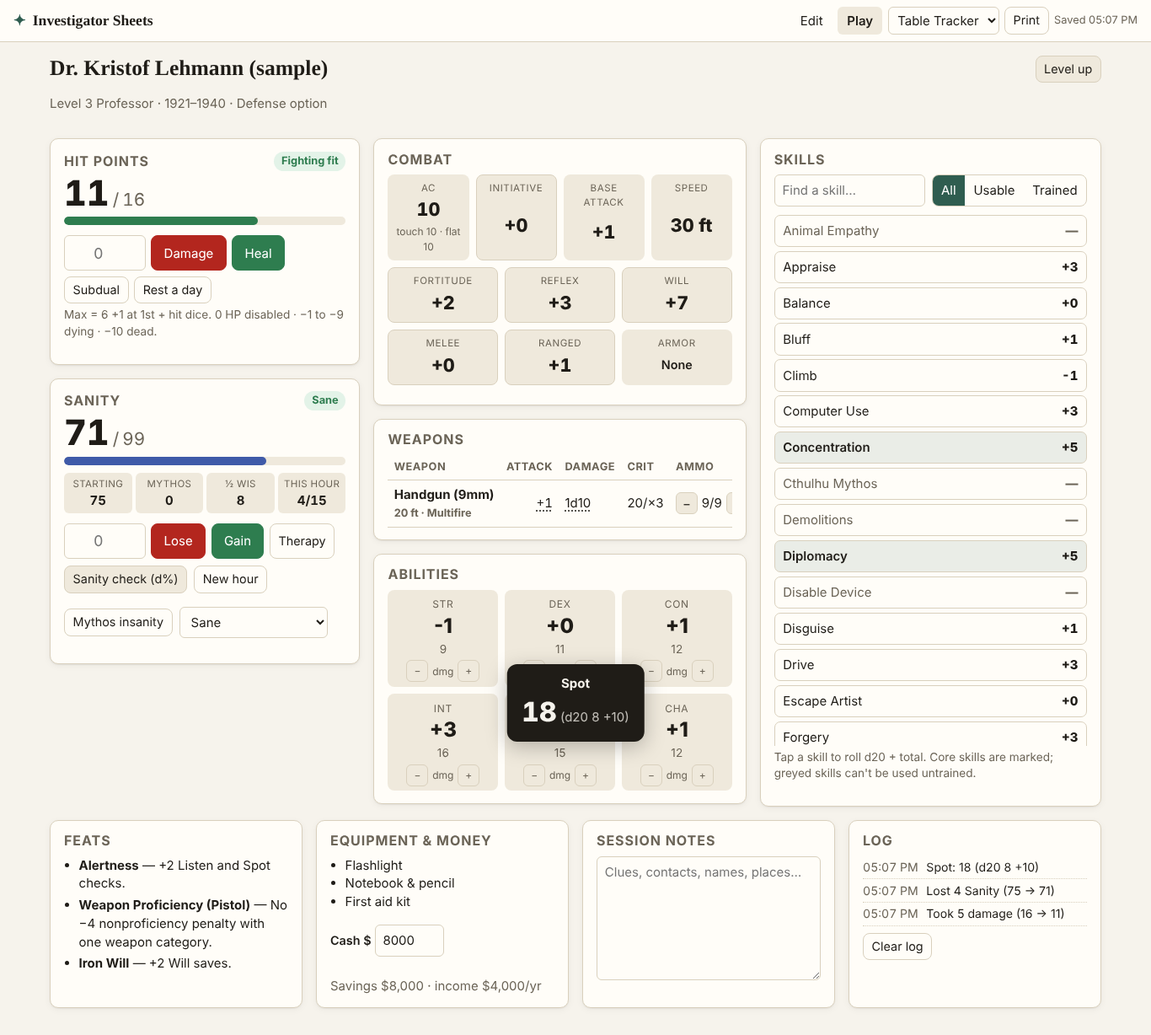
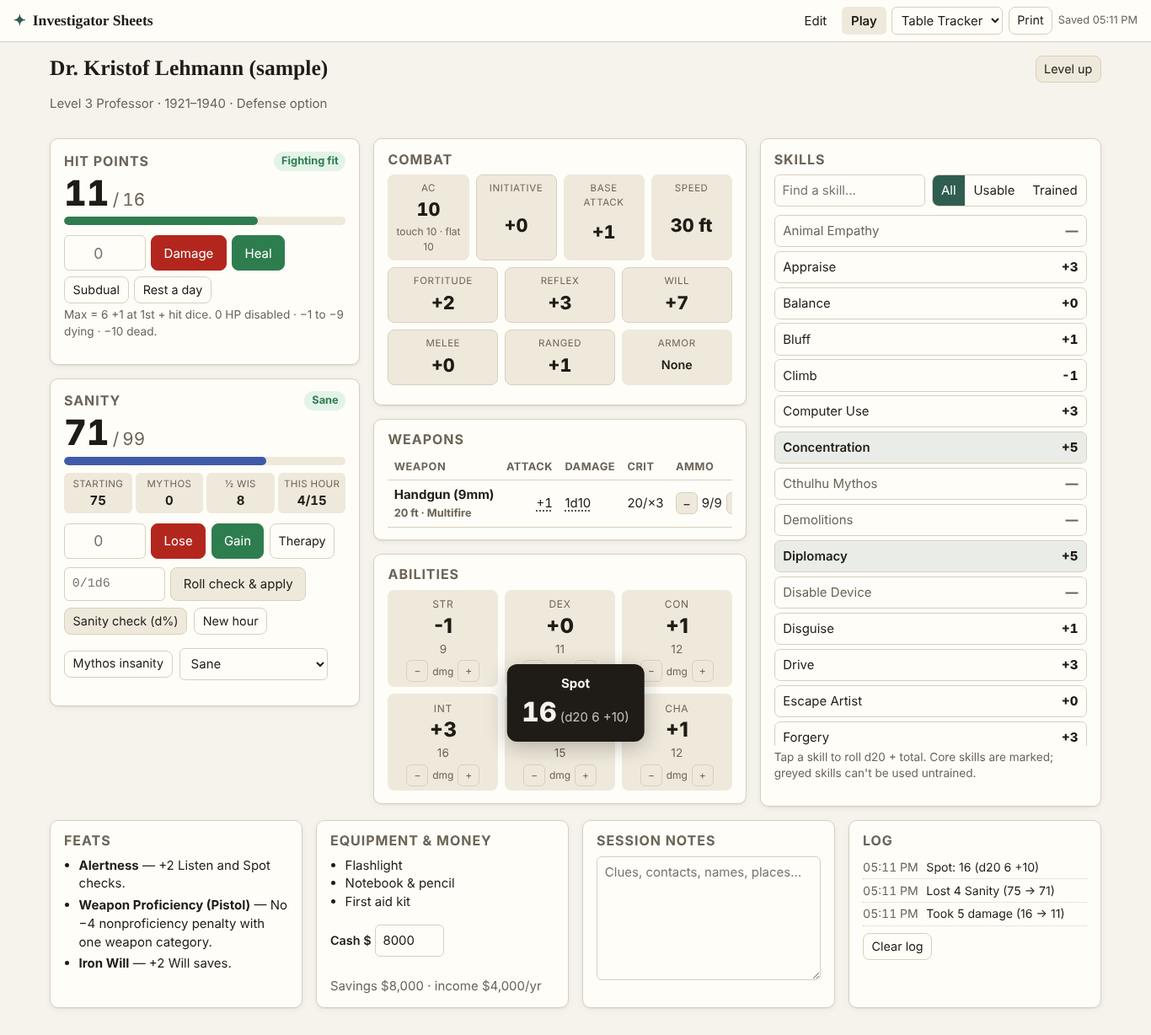
Add insanity tables, Sanity-check rolls and specific firearms
- Tables 4-1 to 4-4 and the Sanity Loss Examples (p.48-50), checked
  against the page images: "Roll check & apply" takes success/failure
  loss notation, rolls d% against current Sanity and applies the loss;
  temporary and indefinite insanity alerts roll the duration and effect.
- Table 6-5 specific firearms (pistols, rifles, automatic rifles, SMGs)
  as weapon presets, grouped by table. Shotguns stay generic because
  their damage table (6-8) is unverified.
- Offense bonus Weapon Proficiency: rules as written tie it to the
  Defense Bonus variant; the other reading is a labelled house rule.
- DESIGNS.md: data provenance for every table used; 30 tests passing.

Claude-Session: https://claude.ai/code/session_01RhYKi65zqZFbYt3AciwoZE

Changed region(s): [[0.0307, 0.5261, 0.2767, 0.6498], [0.7072, 0.0, 0.9839, 0.0309], [0.4612, 0.6808, 0.4919, 0.7117]]

diff --git a/v2/js/rules.js b/v2/js/rules.js
@@ -253,6 +253,76 @@
     { name: "Submachine gun (9×19mm)", category: "smg", damage: "1d10", critical: "×3", range: "25 ft", capacity: 30, rof: "Autofire" },
   ];
 
+  // Specific firearms — Table 6-5 (p.98-99), verified against the page images
+  // (docs/rulebook/EXTRACTION_REVIEW.md §2.18). Where a gun is listed in several
+  // calibers, each calibre's damage is shown in the name. Shotguns are omitted
+  // because their damage comes from Table 6-8, which has not been verified;
+  // use the generic shotgun from Table 6-3.
+  const SPECIFIC_FIREARMS = [
+    // [name, category, damage, capacity, range ft, rate of fire, critical]
+    ["Remington Double Derringer (.41 RF)", "pistol", "1d8", 2, 5, "Multifire"],
+    ["Colt Single Action Army (.45 Colt)", "pistol", "2d8", 6, 20, "Standard"],
+    ["Colt Single Action Army (.40/.41 Colt)", "pistol", "1d10", 6, 20, "Standard"],
+    ["Colt M1877 \"Lightning\" (.38 Colt)", "pistol", "1d10", 6, 20, "Multifire"],
+    ["Colt M1877 \"Thunderer\" (.41 Colt)", "pistol", "1d10", 6, 20, "Multifire"],
+    ["Webley Mark I (.455)", "pistol", "2d8", 6, 20, "Standard/Multifire"],
+    ["Mauser M1896 \"Broomhandle\"", "pistol", "1d10", 10, 20, "Multifire"],
+    ["P08 Luger (9×19mm)", "pistol", "1d10", 8, 20, "Multifire"],
+    ["Colt M1911 (.45 ACP)", "pistol", "2d8", 7, 20, "Multifire"],
+    ["Colt M1917 Revolver (.45 ACP)", "pistol", "2d8", 6, 20, "Multifire"],
+    ["S&W M1917 Revolver (.45 ACP)", "pistol", "2d8", 6, 20, "Multifire"],
+    ["Astra M1921 (9mm)", "pistol", "1d10", 8, 20, "Multifire"],
+    ["Walther PPK (.32 ACP)", "pistol", "1d8", 7, 20, "Multifire"],
+    ["Walther PPK (.380 ACP)", "pistol", "1d10", 7, 20, "Multifire"],
+    ["Browning GP35 High-Power (9×19mm)", "pistol", "1d10", 13, 20, "Multifire"],
+    ["Walther P38 (9×19mm)", "pistol", "1d10", 8, 20, "Multifire"],
+    ["Colt Python (.357 Magnum)", "pistol", "2d6", 6, 20, "Multifire"],
+    ["Ruger Blackhawk (.357 Magnum)", "pistol", "2d6", 6, 20, "Standard"],
+    ["Ruger Blackhawk (.44 Magnum / .45 Colt)", "pistol", "2d8", 6, 20, "Standard"],
+    ["H&K P9 (9×19mm)", "pistol", "1d10", 9, 20, "Multifire"],
+    ["SIG-Sauer P225 (9×19mm)", "pistol", "1d10", 8, 20, "Multifire"],
+    ["Beretta M92 (9×19mm)", "pistol", "1d10", 15, 20, "Multifire"],
+    ["Ruger Redhawk (.44 Magnum)", "pistol", "2d8", 6, 20, "Multifire"],
+    ["IMI Desert Eagle (.357/.41)", "pistol", "2d6", 9, 20, "Multifire"],
+    ["IMI Desert Eagle (.44 Magnum)", "pistol", "2d8", 7, 20, "Multifire"],
+    ["IMI Desert Eagle (.50 AE)", "pistol", "2d10", 7, 20, "Multifire"],
+    ["Glock 17 (9×19mm)", "pistol", "1d10", 17, 20, "Multifire"],
+    ["Colt Delta Elite (10mm)", "pistol", "1d10", 8, 20, "Multifire"],
+    ["Mosin-Nagant M1891 (7.62×54mm)", "rifle", "2d10", 5, 200, "Standard"],
+    ["Mannlicher-Carcano M1891 Carbine", "rifle", "2d8", 6, 175, "Standard"],
+    ["Winchester M1894 (.32-40/.25-35)", "rifle", "2d6", 8, 200, "Standard"],
+    ["Winchester M1894 (.30-30/.38-55)", "rifle", "2d10", 8, 200, "Standard"],
+    ["Lee-Enfield Mk I (.303)", "rifle", "2d10", 6, 175, "Standard"],
+    ["Mauser M1898 (7.92×57mm)", "rifle", "2d10", 5, 200, "Standard"],
+    ["Springfield M1903", "rifle", "2d10", 5, 175, "Standard"],
+    ["Lee-Enfield Mk III (.303)", "rifle", "2d10", 10, 200, "Standard"],
+    ["M1 Garand (.30-06)", "rifle", "2d10", 8, 200, "Multifire"],
+    ["Springfield M1903A4 Sniper (.30-06)", "rifle", "2d10", 5, 200, "Standard"],
+    ["Lee-Enfield No. 5 Jungle Carbine", "rifle", "2d10", 10, 175, "Standard"],
+    ["Ruger Mini-14 (5.56×45mm)", "rifle", "2d6", 30, 200, "Multifire"],
+    ["M21 Sniper (7.62×51mm)", "rifle", "2d10", 20, 200, "Multifire"],
+    ["Barrett Light Fifty M82A1", "rifle", "2d12", 11, 200, "Multifire", "×4"],
+    ["FR-F2 Sniper (7.62×51mm)", "rifle", "2d10", 10, 200, "Standard"],
+    ["Ruger M77 Mk II Police (7.62×51mm)", "rifle", "2d10", 4, 200, "Standard"],
+    ["M1918 BAR (.30-06)", "rifle", "2d10", 20, 200, "Autofire"],
+    ["AK-47 (7.62×39mm)", "rifle", "2d6", 30, 150, "Autofire"],
+    ["FN FAL (7.62×51mm)", "rifle", "2d10", 20, 200, "Autofire"],
+    ["M-14 (7.62×51mm)", "rifle", "2d10", 20, 200, "Autofire"],
+    ["H&K G3 (7.62×51mm)", "rifle", "2d6", 20, 200, "Autofire"],
+    ["Colt M-16A1 (5.56×45mm)", "rifle", "2d6", 30, 200, "Autofire"],
+    ["Galil (5.56×45mm)", "rifle", "2d6", 35, 200, "Autofire"],
+    ["Steyr AUG (5.56×45mm)", "rifle", "2d6", 30, 200, "Autofire"],
+    ["Enfield L85A1 (5.56×45mm)", "rifle", "2d6", 30, 200, "Autofire"],
+    ["Thompson M1921 (.45 ACP)", "smg", "2d8", 20, 30, "Autofire"],
+    ["Sten Mk I (9×19mm)", "smg", "1d10", 32, 25, "Autofire"],
+    ["M3 \"Grease Gun\" (.45 ACP)", "smg", "2d8", 30, 30, "Autofire"],
+    ["Uzi (9×19mm)", "smg", "1d10", 32, 25, "Autofire"],
+    ["Sterling L2A1 (9×19mm)", "smg", "1d10", 34, 30, "Autofire"],
+    ["vz61 Skorpion (.32 ACP)", "smg", "1d8", 20, 20, "Autofire"],
+    ["H&K MP5 (9×19mm)", "smg", "1d10", 30, 25, "Autofire"],
+  ].map(([name, category, damage, capacity, range, rof, critical]) => ({ name, category, damage, critical: critical || "×3", range: `${range} ft`, capacity, rof, source: "Table 6-5" }));
+  WEAPON_PRESETS.push(...SPECIFIC_FIREARMS);
+
   // ---------------------------------------------------------------------------
   // Small helpers
   // ---------------------------------------------------------------------------
@@ -795,6 +865,112 @@
     };
   }
 
+  // ---------------------------------------------------------------------------
+  // Insanity tables (p.48-50), transcribed from the page images.
+  // ---------------------------------------------------------------------------
+  const SANITY_LOSS_EXAMPLES = [ // p.48: successful check cost / failed check cost
+    ["0/1d2", "Surprised to find mangled animal carcass"], ["0/1d3", "Surprised to find human corpse"],
+    ["0/1d3", "Surprised to find human body part"], ["0/1d4", "Finding a stream flowing with blood"],
+    ["1/1d4+1", "Finding a mangled human corpse"], ["0/1d6", "Awakening trapped in a coffin"],
+    ["0/1d6", "Witnessing a friend's violent death"], ["0/1d6", "Seeing a ghoul"],
+    ["1/1d6+1", "Meeting someone you know to be dead"], ["0/1d10", "Undergoing severe torture"],
+    ["1/1d10", "Seeing a corpse rise from its grave"], ["2/2d10+1", "Seeing a gigantic severed head fall from the sky"],
+    ["1d10/1d100", "Seeing Great Cthulhu"],
+  ];
+  const TEMP_INSANITY_DURATION = [ // Table 4-1 (d10)
+    { max: 7, type: "short", label: "Short temporary insanity", duration: "1d10+4 rounds" },
+    { max: 10, type: "long", label: "Longer temporary insanity", duration: "1d10×10 hours" },
+  ];
+  const SHORT_TEMP_INSANITY = [ // Table 4-2 (d%), lasts 1d10+4 rounds
+    [20, "Character faints (can be awakened by vigorous action taking one round)"],
+    [30, "Character has a screaming fit"],
+    [40, "Character flees in panic"],
+    [50, "Character shows physical hysterics or emotional outburst (laughing, crying, and so on)"],
+    [55, "Character babbles in incoherent rapid speech or in logorrhea (a torrent of coherent speech)"],
+    [60, "Character gripped by intense phobia, perhaps rooting her to the spot"],
+    [65, "Character becomes homicidal, dealing harm on nearest person as efficiently as possible"],
+    [70, "Character has hallucinations or delusions (details at the discretion of the GM)"],
+    [75, "Character gripped with echopraxia or echolalia (saying or doing whatever those around him say or do)"],
+    [80, "Character gripped with strange or deviant eating desire (dirt, slime, cannibalism, and so on)"],
+    [90, "Character falls into a stupor (assumes fetal position, oblivious to events around her)"],
+    [99, "Character becomes catatonic (can stand but has no will or interest; may be led or forced to simple actions but takes no independent action)"],
+    [100, "Roll on Table 4-3: Long-Term Temporary Insanity Effects"],
+  ];
+  const LONG_TEMP_INSANITY = [ // Table 4-3 (d%), lasts 1d10×10 hours
+    [10, "Character performs compulsive rituals (washing hands constantly, praying, walking in a particular rhythm, never stepping on cracks, constantly checking to see if gun is loaded, and so on)"],
+    [20, "Character has hallucinations or delusions (details at the discretion of the GM)"],
+    [30, "Character becomes paranoid"],
+    [40, "Character gripped with severe phobia (refuses to approach object of phobia except on successful Will save, DC 20)"],
+    [45, "Character has strange sexual desires (exhibitionism, nymphomania or satyriasis, teratophilia, necrophilia, and so on)"],
+    [55, "Character develops an attachment to a \"lucky charm\" (embraces object, type of object, or person as a safety blanket) and cannot function without it"],
+    [65, "Character develops psychosomatic blindness, deafness, or the loss of the use of a limb or limbs"],
+    [75, "Character has uncontrollable tics or tremors (−4 penalty to all attack rolls, checks, and saves except those purely mental in nature)"],
+    [85, "Character has amnesia (memories of intimates usually lost first; Knowledge skills useless)"],
+    [90, "Character has bouts of reactive psychosis (incoherence, delusions, aberrant behavior, and/or hallucinations)"],
+    [95, "Character loses ability to communicate via speech or writing"],
+    [100, "Character becomes catatonic (can stand but has no will or interest; may be led or forced into simple actions but takes no independent action)"],
+  ];
+  const INDEFINITE_INSANITY = [ // Table 4-4 (d%), lasts 1d6 game months
+    [15, "Anxiety Disorders (includes severe phobias)"],
+    [25, "Dissociative Disorders (amnesia, multiple personalities)"],
+    [30, "Eating Disorders (anorexia, bulimia)"],
+    [35, "Impulse Control Disorders (compulsions)"],
+    [45, "Mood Disorders (manic/depressive)"],
+    [50, "Personality Disorders (various neuroses)"],
+    [55, "Psychosexual Disorders (sadism, nymphomania)"],
+    [70, "Schizophrenia/Psychotic Disorders (delusions, hallucinations, paranoia, catatonia)"],
+    [80, "Sleep Disorders (night terrors, sleepwalking)"],
+    [85, "Somatoform Disorders (psychosomatic conditions)"],
+    [95, "Substance Abuse Disorder (alcoholic, drug addict)"],
+    [100, "Other Disorders (megalomania, quixotism, panzaism)"],
+  ];
+  /** Look up a d% (1-100; "00" = 100) on one of the tables above. */
+  function lookup(table, roll) { return (table.find(([max]) => roll <= max) || table[table.length - 1])[1]; }
+
+  /** Roll an expression such as "3", "1d6+1", "d10", "2d10+1", "1d100". */
+  function rollExpr(expr, rng = Math.random) {
+    const e = String(expr || "").trim().replace(/\s+/g, "").replace(/d%/i, "1d100");
+    if (/^-?\d+$/.test(e)) return { total: +e, rolls: [] };
+    const m = e.match(/^(\d*)d(\d+)([+-]\d+)?$/i);
+    if (!m) return null;
+    const n = +(m[1] || 1), sides = +m[2], bonus = +(m[3] || 0);
+    const rolls = Array.from({ length: n }, () => rollDie(sides, rng));
+    return { total: Math.max(0, rolls.reduce((a, b) => a + b, 0) + bonus), rolls, bonus };
+  }
+  /** Parse Sanity loss notation "success/failure", e.g. "0/1d6" or "1/1d4+1". */
+  function parseSanityLoss(text) {
+    const parts = String(text || "").split("/").map((x) => x.trim());
+    if (parts.length !== 2 || !rollExpr(parts[0], () => 0) || !rollExpr(parts[1], () => 0)) return null;
+    return { success: parts[0], failure: parts[1] };
+  }
+  /** Sanity check (d% ≤ current Sanity) and the resulting loss (p.46-48). */
+  function sanityCheck(c, notation, rng = Math.random) {
+    const loss = parseSanityLoss(notation);
+    if (!loss) return null;
+    const current = sanity(c).current;
+    const roll = rollDie(100, rng);
+    const success = roll <= current;
+    const amount = rollExpr(success ? loss.success : loss.failure, rng);
+    return { roll, current, success, expr: success ? loss.success : loss.failure, amount: amount.total, dice: amount.rolls, bonus: amount.bonus || 0 };
+  }
+  /** Roll temporary insanity: Table 4-1 for duration, then 4-2 or 4-3 for the effect. */
+  function rollTemporaryInsanity(rng = Math.random) {
+    const d10 = rollDie(10, rng);
+    const kind = TEMP_INSANITY_DURATION.find((r) => d10 <= r.max);
+    let pct = rollDie(100, rng);
+    let table = kind.type === "short" ? SHORT_TEMP_INSANITY : LONG_TEMP_INSANITY;
+    let effect = lookup(table, pct);
+    let rerolled = null;
+    if (kind.type === "short" && pct === 100) { rerolled = rollDie(100, rng); effect = lookup(LONG_TEMP_INSANITY, rerolled); }
+    const length = kind.type === "short" ? `${rollExpr("1d10+4", rng).total} rounds` : `${rollDie(10, rng) * 10} hours`;
+    return { d10, kind: kind.label, duration: kind.duration, length, roll: pct, rerolled, effect };
+  }
+  /** Roll indefinite insanity on Table 4-4; it lasts 1d6 game months (p.49). */
+  function rollIndefiniteInsanity(rng = Math.random) {
+    const pct = rollDie(100, rng);
+    return { roll: pct, disorder: lookup(INDEFINITE_INSANITY, pct), months: rollDie(6, rng) };
+  }
+
   /** Worked example used by v2/DESIGNS.md and the tests (3rd-level Professor, age 52). */
   function sampleCharacter() {
     const c = newCharacter({
@@ -824,6 +1000,8 @@
     skillBase, skillSpecialty, skillDef,
     baseAttackBonus, attackSequence, baseSave, goodSaveCount, coreMaxRanks, noncoreMaxRanks, featSlots,
     abilityIncreaseLevels, defenseBonus, agingCategory, offenseBonusFeat, gearWeight, sampleCharacter,
+    SANITY_LOSS_EXAMPLES, TEMP_INSANITY_DURATION, SHORT_TEMP_INSANITY, LONG_TEMP_INSANITY, INDEFINITE_INSANITY,
+    lookup, rollExpr, parseSanityLoss, sanityCheck, rollTemporaryInsanity, rollIndefiniteInsanity,
     newCharacter, normalize, abilityScores, mods, saves, combat, isProficient, weaponAttack, threatRange, parseDamage,
     hitPoints, hpState, sanity, sanityState, loseSanity, gainSanity, newSanityHour, mythosInsanity,
     templateCore, isCore, skillPoints, skillIds, skillTable, money, hasFeat, featCount, featPrereqIssues,

diff --git a/v2/js/designs.js b/v2/js/designs.js
@@ -85,6 +85,12 @@
         <button class="btn ok" data-action="san-gain" title="Gain Sanity (capped at maximum)">Gain</button>
         ${opts.compact ? "" : `<button class="btn ghost small" data-action="san-therapy" title="Psychoanalysis: cannot raise Sanity above starting Sanity">Therapy</button>`}
       </div>
+      <div class="sanroll-row no-print">
+        <label class="sr-only" for="sanRoll-${opts.id || "a"}">Sanity loss (success/failure)</label>
+        <input class="sanroll" id="sanRoll-${opts.id || "a"}" list="sanExamples" placeholder="0/1d6" autocomplete="off" />
+        <button class="btn" data-action="san-roll" title="Roll d% against current Sanity, then roll and apply the success or failure loss">Roll check &amp; apply</button>
+        <datalist id="sanExamples">${C.SANITY_LOSS_EXAMPLES.map(([v, l]) => `<option value="${v}">${esc(l)}</option>`).join("")}</datalist>
+      </div>
       <div class="row no-print">
         <button class="btn small" data-action="san-check">Sanity check (d%)</button>
         <button class="btn small ghost" data-action="san-hour" title="Start a new in-game hour for the 20% indefinite-insanity tracker">New hour</button>
@@ -322,7 +328,22 @@
     const v = input ? parseInt(input.value, 10) : NaN;
     return Number.isFinite(v) && v > 0 ? v : 0;
   }
+  /** Remove the alert holding a given roll button once it has been used. */
+  function dropAlert(action) { const k = playAlerts.findIndex((x) => x.html.includes(`data-action="${action}"`)); if (k >= 0) playAlerts.splice(k, 1); }
   function addAlert(kind, html) { playAlerts.unshift({ kind, html }); if (playAlerts.length > 4) playAlerts.pop(); }
+
+  /** Apply a Sanity loss and raise the rule alerts it triggers (p.47-50). */
+  function applyLoss(ch, d, n, reason, api) {
+    const res = C.loseSanity(ch, n, reason);
+    const s = C.sanity(res.character);
+    for (const t of res.triggers) {
+      if (t === "temporary") addAlert("warn", `<strong>Lost ${n} in one roll (≥ ½ Wis = ${d.sanity.tempThreshold}).</strong> The GM calls for a Sanity check: on a failure the investigator goes temporarily insane. <button class="btn small" data-action="roll-temp-insanity">Roll Tables 4-1 &amp; 4-2/4-3</button>`);
+      if (t === "indefinite") addAlert("danger", `<strong>Lost ${s.hourLoss} Sanity this hour (≥ 20% = ${s.indefiniteThreshold}).</strong> The investigator goes indefinitely insane when the GM judges it. <button class="btn small" data-action="roll-indef-insanity">Roll Table 4-4</button>`);
+      if (t === "zero") addAlert("danger", `<strong>Sanity at ${s.current}.</strong> The character loses 1 more Sanity each round until −10 unless stabilized with Psychoanalysis.`);
+      if (t === "permanent") addAlert("danger", `<strong>Sanity −10 or lower: permanent insanity.</strong> The character becomes an NPC.`);
+    }
+    api.update(() => { const c = res.character; api.pushLog(c, `Lost ${n} Sanity (${d.sanity.current} → ${s.current})${reason ? " — " + reason : ""}`); if (res.triggers.includes("permanent")) c.sanity.insanity = "permanent"; return c; });
+  }
 
   function handleAction(a, el, api) {
     const ch = api.state.ch;
@@ -393,18 +414,33 @@
         c.hp.subdual = 0;
         api.pushLog(c, `Rested a day: +${c.hp.current - d.hp.current} HP`);
       }); break;
+      case "san-roll": {
+        const input = (el.closest(".panel") || document).querySelector("input.sanroll");
+        const notation = input ? input.value : "";
+        const chk = C.sanityCheck(ch, notation);
+        if (!chk) { api.toast("Enter the loss as success/failure, e.g. 0/1d6 or 1/1d4+1."); break; }
+        api.toast(`<strong>Sanity check ${api.esc(notation)}</strong><br><span class="roll-big">${chk.roll}</span> vs ${chk.current} — <strong>${chk.success ? "success" : "failure"}</strong>: lose ${chk.amount}${chk.dice.length ? ` (${api.esc(chk.expr)}: ${chk.dice.join("+")}${chk.bonus ? " " + C.fmt(chk.bonus) : ""})` : ""}`, 7000);
+        applyLoss(ch, d, chk.amount, `Sanity check ${notation}: d% ${chk.roll} vs ${chk.current}, ${chk.success ? "success" : "failure"}`, api);
+        break;
+      }
+      case "roll-temp-insanity": {
+        const r = C.rollTemporaryInsanity();
+        dropAlert("roll-temp-insanity");
+        addAlert("warn", `<strong>${r.kind}: ${r.length}</strong> (Table 4-1 d10 ${r.d10}; ${r.duration}).<br>${api.esc(r.effect)} <span class="muted">(${r.kind.startsWith("Short") ? "Table 4-2" : "Table 4-3"} d% ${r.roll}${r.rerolled ? `, then Table 4-3 d% ${r.rerolled}` : ""})</span>`);
+        api.update((c) => { c.sanity.insanity = "temporary"; api.pushLog(c, `Temporary insanity: ${r.length} — ${r.effect}`); });
+        break;
+      }
+      case "roll-indef-insanity": {
+        const r = C.rollIndefiniteInsanity();
+        dropAlert("roll-indef-insanity");
+        addAlert("danger", `<strong>Indefinite insanity: ${r.months} game month${r.months > 1 ? "s" : ""}</strong> (1d6).<br>${api.esc(r.disorder)} <span class="muted">(Table 4-4 d% ${r.roll}; the GM may choose instead)</span>`);
+        api.update((c) => { c.sanity.insanity = "indefinite"; api.pushLog(c, `Indefinite insanity (${r.months} months): ${r.disorder}`); });
+        break;
+      }
       case "san-lose": {
         const n = amount(el);
         if (!n) { api.toast("Enter an amount first."); break; }
-        const res = C.loseSanity(ch, n, "");
-        const s = C.sanity(res.character);
-        for (const t of res.triggers) {
-          if (t === "temporary") addAlert("warn", `<strong>Lost ${n} in one roll (≥ ½ Wis = ${d.sanity.tempThreshold}).</strong> The GM calls for a Sanity check: on a failure the investigator goes temporarily insane (Table 4-1).`);
-          if (t === "indefinite") addAlert("danger", `<strong>Lost ${s.hourLoss} Sanity this hour (≥ 20% = ${s.indefiniteThreshold}).</strong> The investigator goes indefinitely insane (Table 4-4) when the GM judges it.`);
-          if (t === "zero") addAlert("danger", `<strong>Sanity at ${s.current}.</strong> The character loses 1 more Sanity each round until −10 unless stabilized with Psychoanalysis.`);
-          if (t === "permanent") addAlert("danger", `<strong>Sanity −10 or lower: permanent insanity.</strong> The character becomes an NPC.`);
-        }
-        api.update(() => { const c = res.character; api.pushLog(c, `Lost ${n} Sanity (${d.sanity.current} → ${s.current})`); if (res.triggers.includes("permanent")) c.sanity.insanity = "permanent"; return c; });
+        applyLoss(ch, d, n, "", api);
         break;
       }
       case "san-gain": case "san-therapy": {

diff --git a/v2/js/app.js b/v2/js/app.js
@@ -264,7 +264,7 @@
     </fieldset>
     <fieldset class="field"><legend class="lbl">Optional rules</legend>
       <label class="check"><input type="checkbox" data-action="opt-defense" ${ch.options.defenseBonus ? "checked" : ""}/> Variant: Defense bonus by level (Table 1-15, p.15) — adds to AC; Offense characters also get a bonus Weapon Proficiency feat.</label>
-      <label class="check"><input type="checkbox" data-action="opt-offense-wp" ${ch.options.offenseWeaponProficiency ? "checked" : ""}/> Table ruling: give Offense characters the bonus Weapon Proficiency even without the variant (p.15 prints it inside the variant box; off by default).</label>
+      <label class="check"><input type="checkbox" data-action="opt-offense-wp" ${ch.options.offenseWeaponProficiency ? "checked" : ""}/> House rule: give Offense characters the bonus Weapon Proficiency even without the variant. (As written, p.15 grants it as part of the Defense Bonus variant, to balance that variant.)</label>
     </fieldset>
     ${field("Cthulhu Mythos ranks", inp("mythos", ch.mythos, 'type="number" min="0"'), "Never bought with skill points: starts at 0 and rises through play (Mythos insanity, tomes). Maximum Sanity = 99 − Mythos ranks − any Mythos bonus (misc).")}
     ${field("Background & description", `<textarea data-bind="notes" rows="4">${esc(ch.notes)}</textarea>`)}`;
@@ -407,7 +407,7 @@
       ${field("Armor weight (lb)", `<input type="number" min="0" step="0.5" data-bind="armorWeight" value="${esc(ch.armorWeight || "")}" />`, "Table 6-4 gives no weights; enter your own if your GM tracks them.")}
       <p class="hint">Gear carried or worn: <strong>${d.gearWeight} lb</strong>. The rulebook has no carrying-capacity table for investigators; the only weight rule is Swim: −1 per 5 lb of gear (p.37), applied automatically (${Math.floor(d.gearWeight / 5) ? "−" + Math.floor(d.gearWeight / 5) : "no penalty"}).</p>
       <h3>Weapons</h3>
-      <div class="row"><select id="weaponPreset" aria-label="Weapon preset">${C.WEAPON_PRESETS.map((w, i) => `<option value="${i}">${esc(w.name)} (${esc(w.damage)})</option>`).join("")}</select><button class="btn small" data-action="weapon-add">Add weapon</button><button class="btn small ghost" data-action="weapon-add-custom">Add custom</button></div>
+      <div class="row"><select id="weaponPreset" aria-label="Weapon preset">${[["Melee (Table 6-1)", (w) => w.category === "melee" || w.category === "unarmed"], ["Generic firearms (Table 6-3)", (w) => w.category !== "melee" && w.category !== "unarmed" && !w.source], ["Specific firearms (Table 6-5)", (w) => w.source === "Table 6-5"]].map(([label, f]) => `<optgroup label="${label}">${C.WEAPON_PRESETS.map((w, i) => [w, i]).filter(([w]) => f(w)).map(([w, i]) => `<option value="${i}">${esc(w.name)} (${esc(w.damage)})</option>`).join("")}</optgroup>`).join("")}</select><button class="btn small" data-action="weapon-add">Add weapon</button><button class="btn small ghost" data-action="weapon-add-custom">Add custom</button></div>
       ${weapons ? `<div class="table-wrap"><table class="gear-table"><thead><tr><th>Name</th><th>Category</th><th>Damage</th><th>Crit</th><th>Range</th><th>Cap.</th><th>lb</th><th></th><th>Attack</th><th></th></tr></thead><tbody>${weapons}</tbody></table></div>` : '<p class="muted">No weapons.</p>'}
       <h3>Equipment</h3>
       <div class="row"><input id="itemName" placeholder="Flashlight, notebook, camera…" aria-label="New item" /><button class="btn small" data-action="item-add">Add item</button></div>

diff --git a/v2/tests/rules.test.js b/v2/tests/rules.test.js
@@ -342,3 +342,35 @@ test("Temporary insanity threshold is ≥ half the Wisdom score (odd Wis rounds 
   assert.equal(CoC.loseSanity(c, 7).triggers.includes("temporary"), false);
   assert.equal(CoC.loseSanity(c, 8).triggers.includes("temporary"), true);
 });
+
+test("Insanity tables 4-1 to 4-4 and Sanity loss notation (p.48-50)", () => {
+  assert.deepEqual(CoC.parseSanityLoss("1/1d4+1"), { success: "1", failure: "1d4+1" });
+  assert.equal(CoC.parseSanityLoss("1d6"), null);
+  assert.equal(CoC.rollExpr("2d10+1", () => 0.999).total, 21);
+  assert.equal(CoC.rollExpr("1d100", () => 0).total, 1);
+  assert.equal(CoC.lookup(CoC.SHORT_TEMP_INSANITY, 20), "Character faints (can be awakened by vigorous action taking one round)");
+  assert.match(CoC.lookup(CoC.SHORT_TEMP_INSANITY, 100), /Table 4-3/);
+  assert.match(CoC.lookup(CoC.LONG_TEMP_INSANITY, 70), /tics or tremors/);
+  assert.match(CoC.lookup(CoC.INDEFINITE_INSANITY, 56), /Schizophrenia/);
+  assert.match(CoC.lookup(CoC.INDEFINITE_INSANITY, 96), /Other Disorders/);
+  // d10 1-7 short, 8-10 long (Table 4-1)
+  const seq = (vals) => { let i = 0; return () => vals[i++ % vals.length]; };
+  assert.equal(CoC.rollTemporaryInsanity(seq([0.65, 0.5, 0.5])).kind, "Short temporary insanity");   // d10 7
+  assert.equal(CoC.rollTemporaryInsanity(seq([0.75, 0.5, 0.5])).kind, "Longer temporary insanity");  // d10 8
+  // Sanity check: d% ≤ current Sanity succeeds and applies the success cost
+  const c = CoC.sampleCharacter(); // Sanity 75
+  const ok = CoC.sanityCheck(c, "1/1d6", seq([0.74, 0.0]));            // d% 75 → success, lose 1
+  assert.deepEqual([ok.roll, ok.success, ok.amount], [75, true, 1]);
+  const bad = CoC.sanityCheck(c, "0/1d6", seq([0.75, 0.999]));         // d% 76 → failure, 1d6 = 6
+  assert.deepEqual([bad.roll, bad.success, bad.amount], [76, false, 6]);
+});
+
+test("Weapon presets: Table 6-1, 6-3 and 6-5 spot checks", () => {
+  const w = (n) => CoC.WEAPON_PRESETS.find((x) => x.name === n);
+  assert.deepEqual([w("Axe, wood or fire").damage, w("Axe, wood or fire").critical], ["1d8", "×3"]);
+  assert.deepEqual([w("Knife, kukri").critical], ["18-20/×2"]);
+  assert.deepEqual([w("Colt M1911 (.45 ACP)").damage, w("Colt M1911 (.45 ACP)").capacity], ["2d8", 7]);
+  assert.deepEqual([w("Thompson M1921 (.45 ACP)").category, w("Thompson M1921 (.45 ACP)").rof], ["smg", "Autofire"]);
+  assert.deepEqual([w("Barrett Light Fifty M82A1").critical, w("AK-47 (7.62×39mm)").range], ["×4", "150 ft"]);
+  assert.ok(!CoC.WEAPON_PRESETS.some((x) => x.source === "Table 6-5" && x.category === "shotgun"));
+});

diff --git a/v2/css/app.css b/v2/css/app.css
@@ -189,6 +189,9 @@ input.spec { width: 9em; padding: .2rem .4rem; }
 .state-note { font-size: .9rem; margin: .5rem 0 0; }
 .amount-row { display: flex; gap: .4rem; margin-top: .75rem; flex-wrap: wrap; }
 .amount-row input.amt { width: 5.5em; font-size: 1.1rem; text-align: center; }
+.sanroll-row { display: flex; gap: .4rem; margin-top: .6rem; flex-wrap: wrap; }
+.sanroll-row input.sanroll { width: 8em; font-family: var(--mono); }
+.alert .btn { margin-top: .35rem; }
 .san-facts { display: grid; grid-template-columns: repeat(4, 1fr); gap: .25rem; margin: .6rem 0 0; }
 .san-facts div { background: var(--surface-2); border-radius: 6px; padding: .3rem .4rem; text-align: center; }
 .san-facts dt { font-size: .72rem; color: var(--muted); text-transform: uppercase; letter-spacing: .03em; }

diff --git a/v2/DESIGNS.md b/v2/DESIGNS.md
@@ -30,7 +30,8 @@ All three draw from the same calculated sheet (`CoC.derive`), so every number is
 
 - Three columns: vitals (HP and Sanity with Damage/Heal/Lose/Gain), combat (AC, initiative, BAB, saves, weapons, abilities) and a searchable skill list.
 - Tap any skill, save, ability, attack or damage entry to roll it. The result appears as a pop-up and in the log.
-- Rule alerts appear at the top: dying, disabled, a Sanity check after losing ½ Wis, and 20%-per-hour indefinite insanity.
+- Rule alerts appear at the top: dying, disabled, a Sanity check after losing ½ Wis, and 20%-per-hour indefinite insanity. The insanity alerts have buttons that roll Tables 4-1 to 4-4.
+- **Roll check & apply** takes the book's loss notation (for example `1/1d6+1`). Pick one of the p.48 examples or type your own. The sheet rolls d% against current Sanity, then rolls and applies the success or failure loss.
 
 ### 2. Classic Sheet: record-sheet layout that prints on two pages
 ![Classic Sheet](docs/screens/design-2-sheet.png)
@@ -105,13 +106,19 @@ To exercise play mode: deal 17 damage and the sheet shows **−1, Dying**, with 
 | Weapon stats | Tables 6-1 and 6-3, p.94–95 | `WEAPON_PRESETS` | — |
 | Sanity: start 5×Wis, max 99−Mythos, ½ Wis per roll → check, 20%/hour → indefinite, 0 → slide, −10 permanent, +1d6 per level (cap at max), therapy capped at starting, Mythos insanity +2 then +1 | p.47–51 | `sanity`, `loseSanity`, `gainSanity`, `mythosInsanity` | ✓ |
 | Money: (1d6 + profession, min 1) × era; Wealth windfall and +2 income | Tables 1-13 and 1-14, p.15, p.42 | `money` | ✓ |
-| Variant defense bonus (+ Offense bonus Weapon Proficiency; table option to grant it always) | Table 1-15, p.15 | `defenseBonus`, `offenseBonusFeat`, `featSlots` | ✓ |
+| Insanity: Table 4-1 duration, 4-2/4-3 effects (00 on 4-2 goes to 4-3), 4-4 disorder plus 1d6 months; Sanity checks with "success/failure" loss notation and the p.48 examples | Tables 4-1 to 4-4, p.48–50 | `sanityCheck`, `rollTemporaryInsanity`, `rollIndefiniteInsanity` | ✓ |
+| Specific firearms | Table 6-5, p.98–99 | `SPECIFIC_FIREARMS` | ✓ |
+| Variant defense bonus (+ Offense bonus Weapon Proficiency; house-rule switch to grant it always) | Table 1-15, p.15 | `defenseBonus`, `offenseBonusFeat`, `featSlots` | ✓ |
 
-**Data provenance.** Every table the app uses was checked against the rulebook page images in `docs/rulebook/EXTRACTION_REVIEW.md` §2: Tables 1-8 to 1-15, the profession templates, Tables 2-1, 2-4, 3-1, 3-2, 6-1, 6-3 and 6-4, and the Sanity and combat rules. The tables that review could not verify are not used by the app: 1-12 (height and weight), 2-2, 2-5, 4-2 and 4-3, the 5-x combat tables, and 6-5 onwards (specific firearms). Players enter specific firearms by hand.
+**Data provenance.** Every table the app uses was checked against the rulebook page images:
+- Verified in `docs/rulebook/EXTRACTION_REVIEW.md` §2: Tables 1-8 to 1-15, the profession templates, Tables 2-1, 2-4, 3-1, 3-2, 6-1, 6-3, 6-4 and 6-5 (pistols, rifles, automatic rifles and SMGs), and the Sanity and combat rules.
+- Checked from the page images (PDF 50–52) while building the insanity helpers: Tables 4-1 to 4-4 and the Sanity Loss Examples.
+
+The app does not use any table that hasn't been verified. That means Table 1-12 (height and weight), the DC example Tables 2-2 and 2-5, the 5-x combat-modifier tables, and Table 6-8 (shotgun damage by gauge) are left to the GM and the book. For shotguns the sheet offers only the generic one from Table 6-3.
 
 ## Rulebook ambiguities and how they are resolved
 
-The source has a few inconsistencies. Each one below is resolved from the rulebook's own text, and the resolution is covered by a test. The one genuine judgment call is a table option, so the sheet is correct whichever reading your group uses.
+The source has a few inconsistencies. Each one below is resolved from the rulebook's own text, and the resolution is covered by a test. Where a group may prefer something else, the sheet offers a clearly labelled house-rule switch, defaulting to rules as written.
 
 | # | Issue | Resolution | Evidence |
 |---|---|---|---|
@@ -122,7 +129,7 @@ The source has a few inconsistencies. Each one below is resolved from the rulebo
 | 5 | **Maximum Sanity: "99 − Mythos ranks" or "99 − Mythos modifier"** | **99 − (Mythos ranks + any Mythos bonus).** Mythos has no key ability, so its modifier is ranks plus bonuses, which satisfies both wordings. Enter a bonus as the Mythos "misc". | p.47: "This number (99 minus Cthulhu Mythos ranks and any bonuses) is the character's maximum Sanity." The worked example on p.50 (99 − 3 ranks = 96) agrees. |
 | 6 | **"Loses one-half her Wisdom score"** with an odd Wisdom | **A loss of at least half.** Wis 15 means 7.5, so a loss of 8 triggers it. | p.47 |
 | 7 | **Skill points after an Int increase** | **Not retroactive.** The sheet records the Int modifier at each level; levels gained after an increase get the new value. | p.9 (Claire's example) |
-| 8 | **Offense option's extra Weapon Proficiency** is printed only inside the Defense Bonus variant box (p.15) | **Table option.** By default it is granted with the variant ("to balance the two options"). Groups that read it as a core rule can tick "Table ruling: give Offense characters the bonus Weapon Proficiency even without the variant" on the Basics step. | p.15 |
+| 8 | **Offense option's extra Weapon Proficiency** is printed only inside the Defense Bonus variant box (p.15) | **Rules as written: it comes with the variant.** The sentence sits inside the variant box and says it is there "to balance the two options" once Defense characters get the bigger AC bonus. Groups that prefer otherwise can switch on a clearly labelled **house rule** on the Basics step. | p.15 |
 
 ## A/B deployment
 
